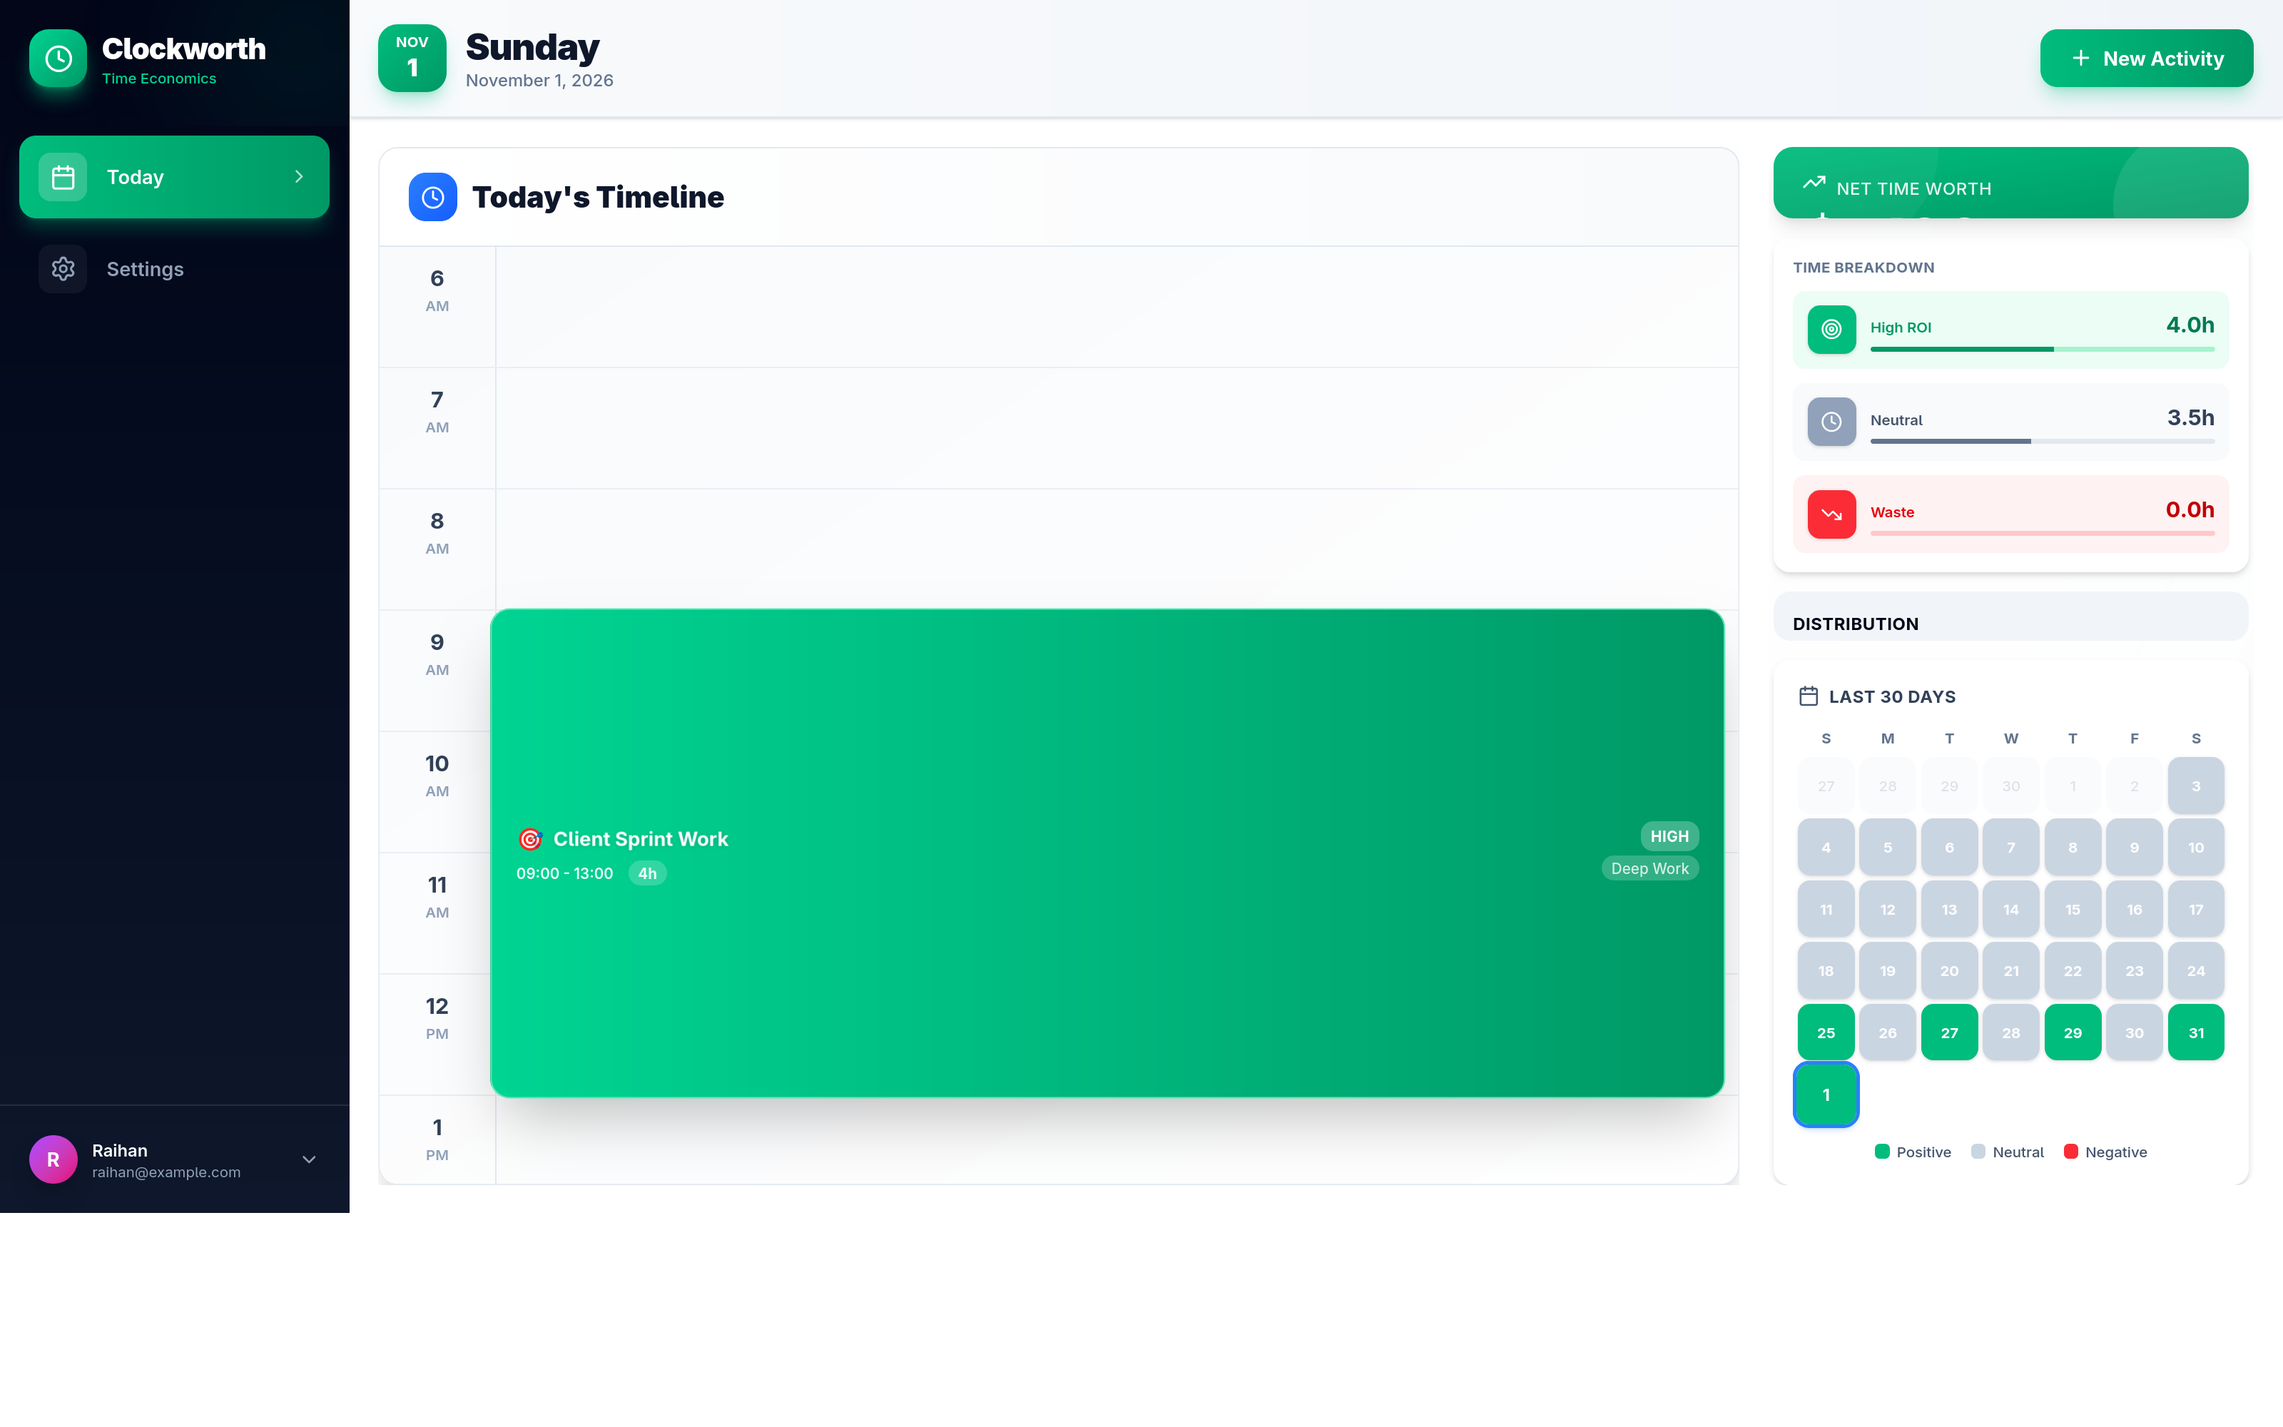
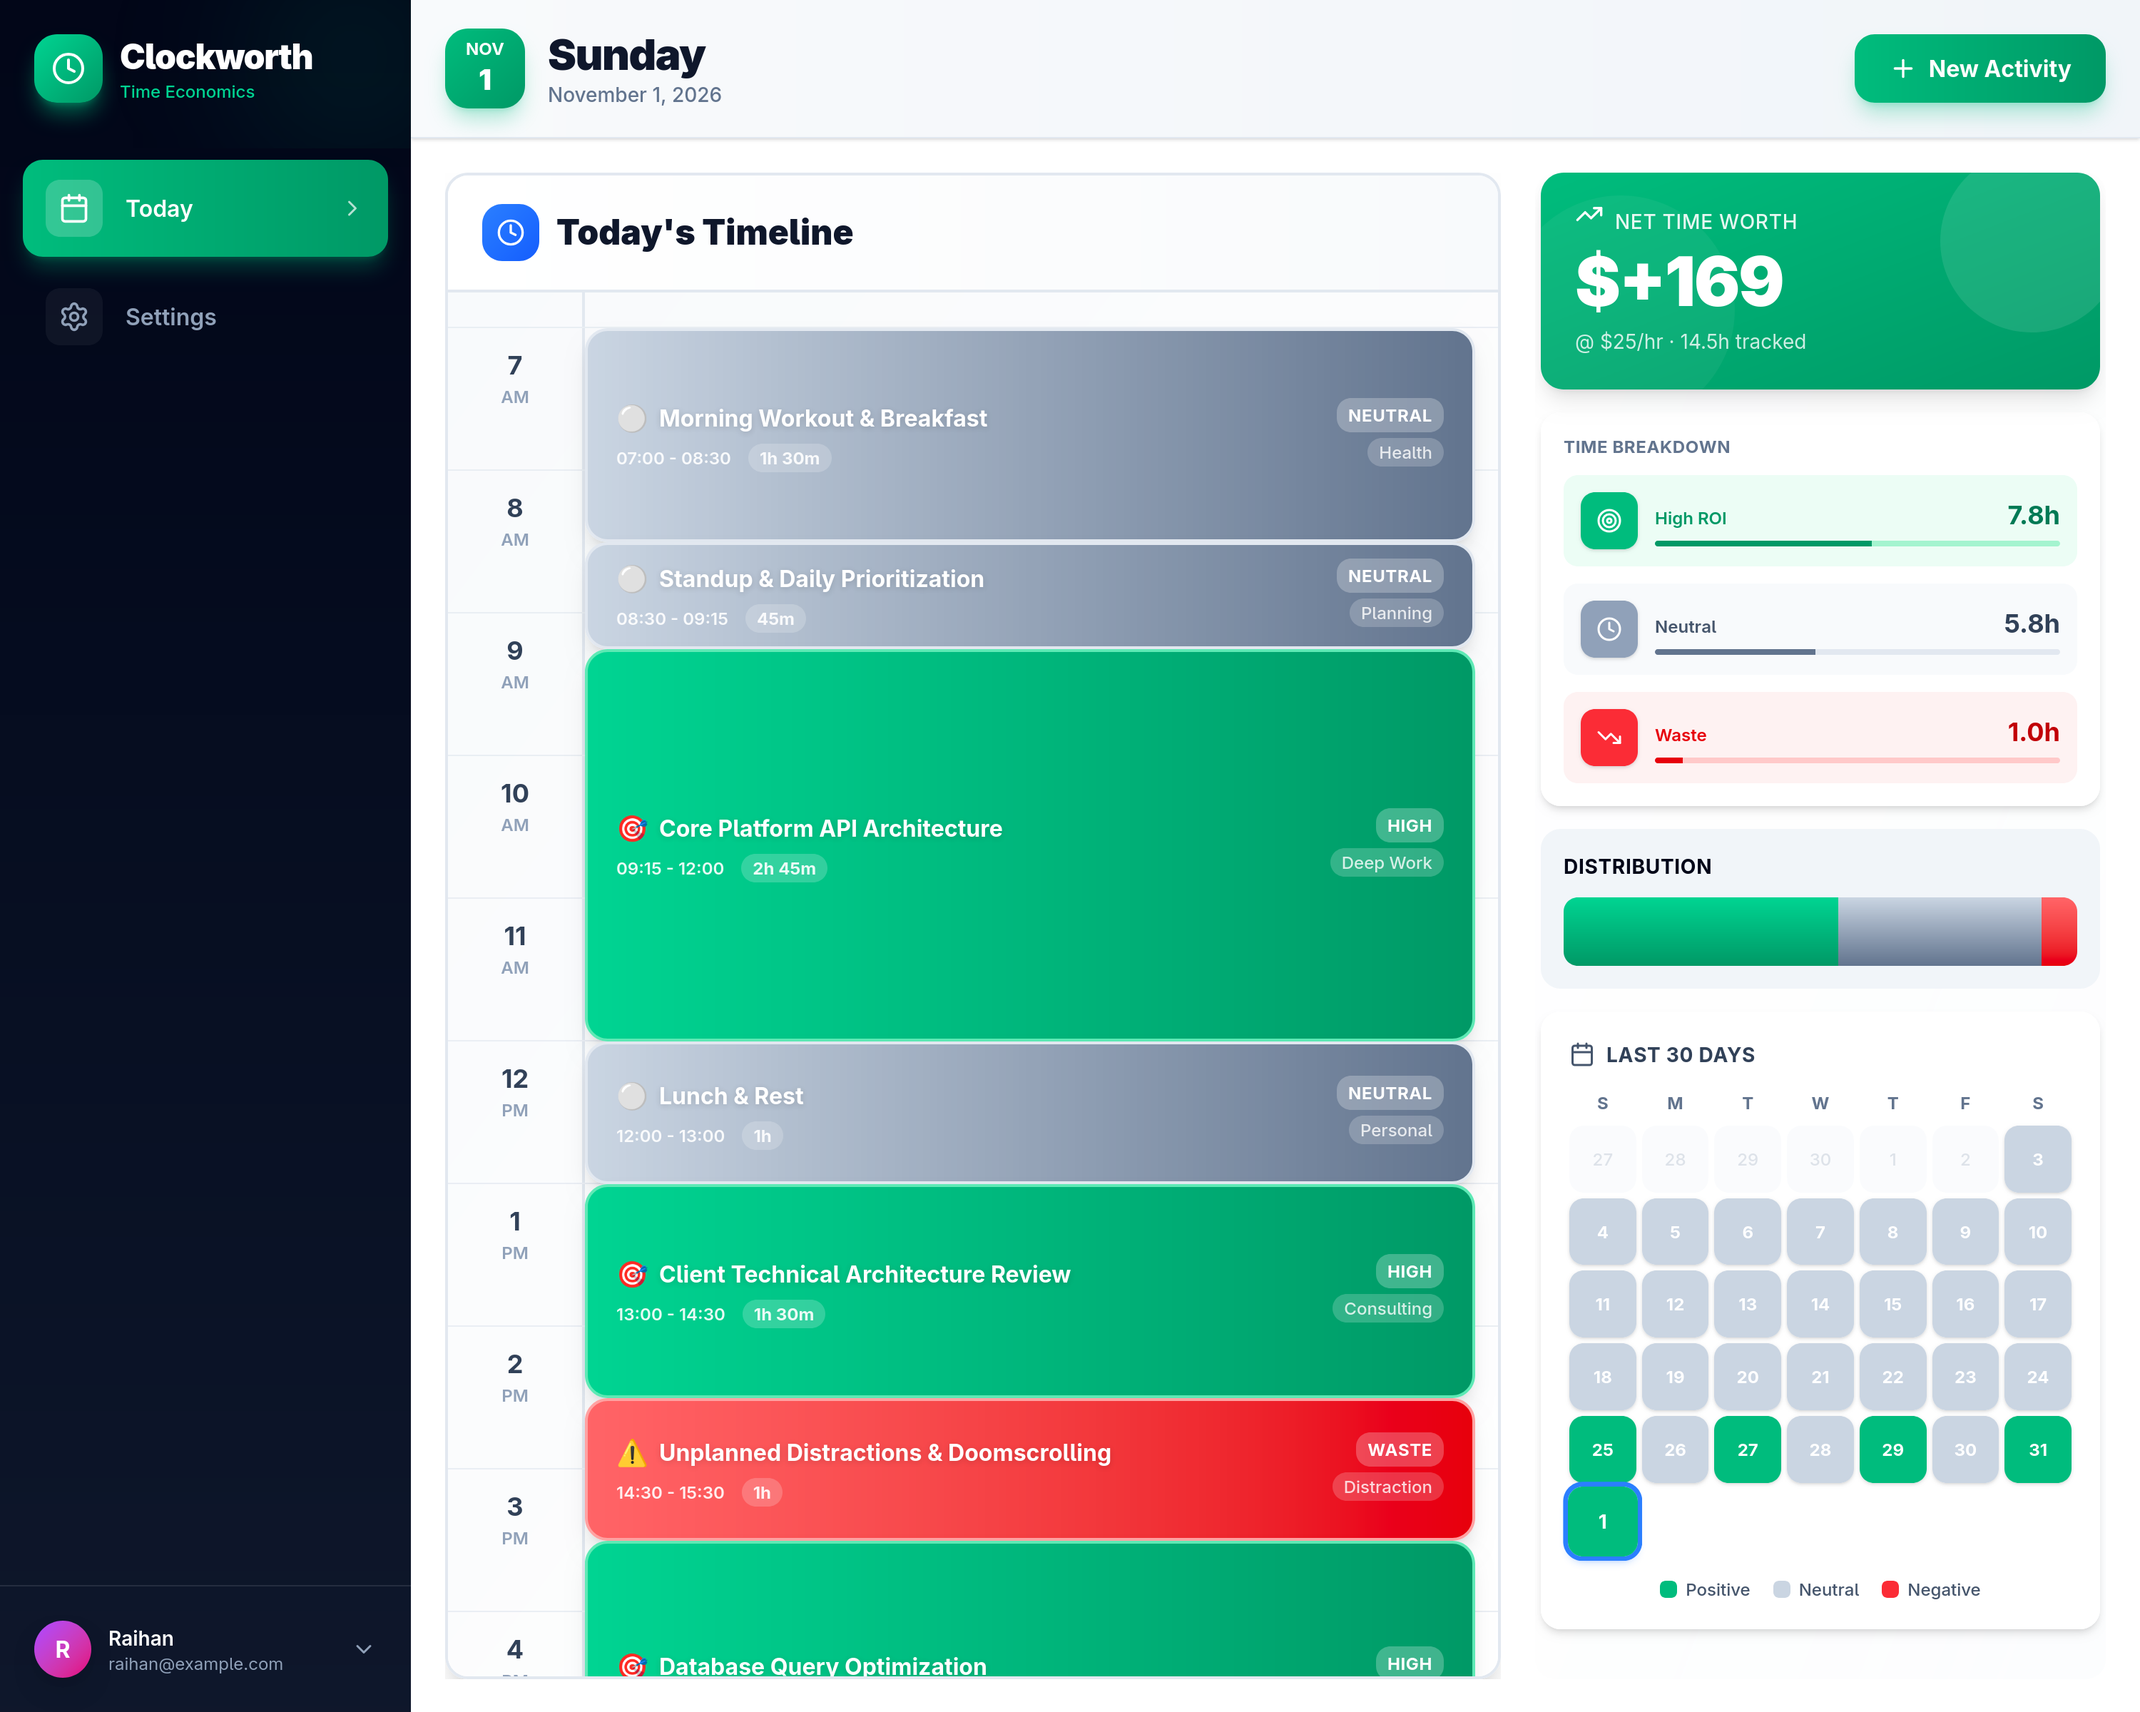
Fix timezone date handling and capture 1500x1200 dashboard screenshot

diff --git a/web/src/routes/(dashboard)/dashboard/+page.ts b/web/src/routes/(dashboard)/dashboard/+page.ts
@@ -2,7 +2,8 @@ import { api } from '$lib/api';
 import type { PageLoad } from './$types';
 
 export const load: PageLoad = async () => {
-	const today = new Date().toISOString().split('T')[0]; // YYYY-MM-DD
+	const now = new Date();
+	const today = `${now.getFullYear()}-${String(now.getMonth() + 1).padStart(2, '0')}-${String(now.getDate()).padStart(2, '0')}`; // YYYY-MM-DD in local time
 
 	// Retry helper for transient failures
 	async function fetchWithRetry<T>(

diff --git a/web/src/lib/components/ActivityModal.svelte b/web/src/lib/components/ActivityModal.svelte
@@ -112,7 +112,8 @@
 				onActivityUpdated?.(updatedActivity);
 			} else {
 				// Create new activity
-				const today = new Date().toISOString().split('T')[0];
+				const now = new Date();
+				const today = `${now.getFullYear()}-${String(now.getMonth() + 1).padStart(2, '0')}-${String(now.getDate()).padStart(2, '0')}`;
 				const apiActivity = await api.createActivity({
 					title: formData.title,
 					start_time: formData.startTime,
